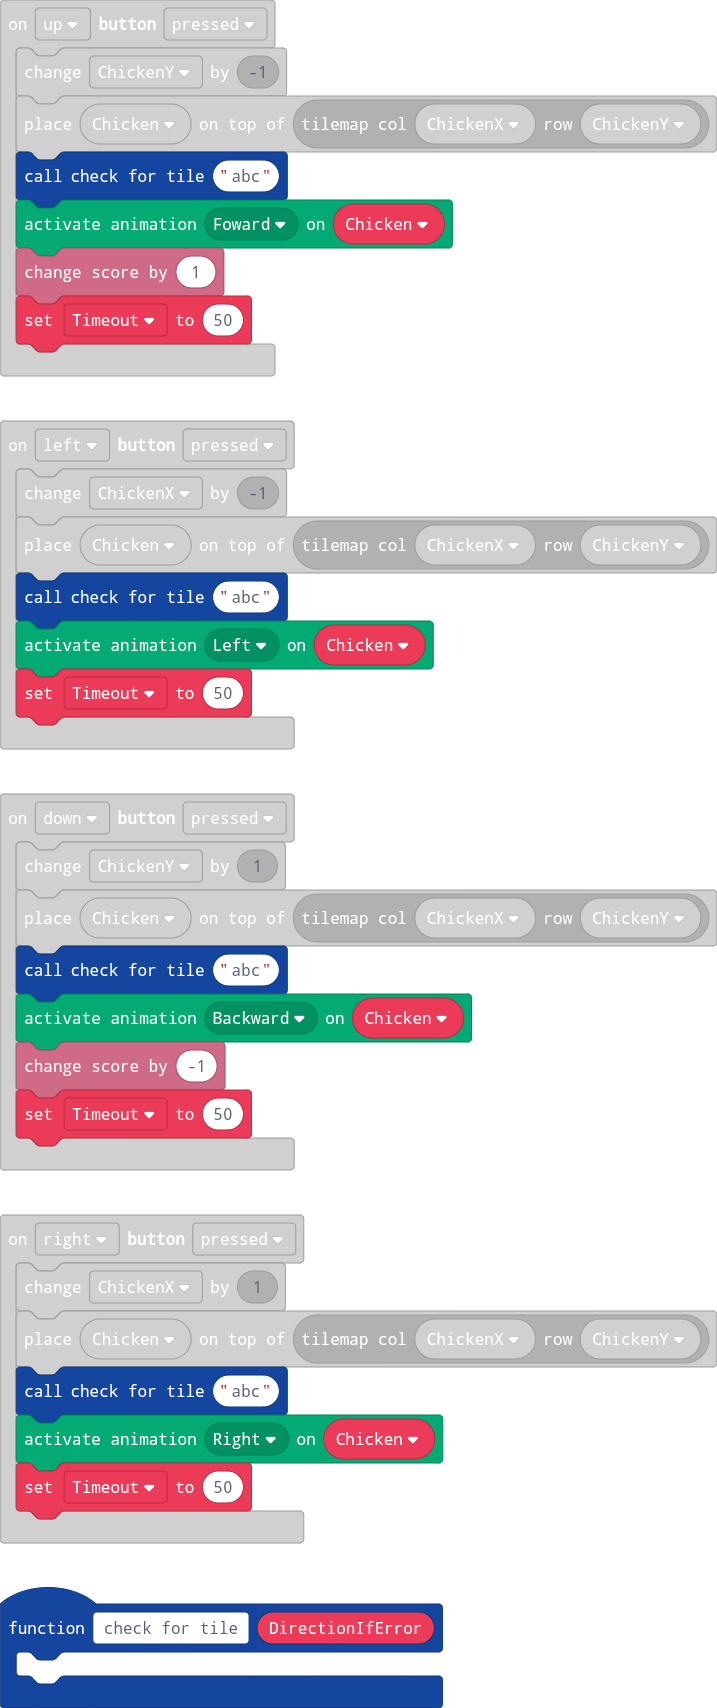
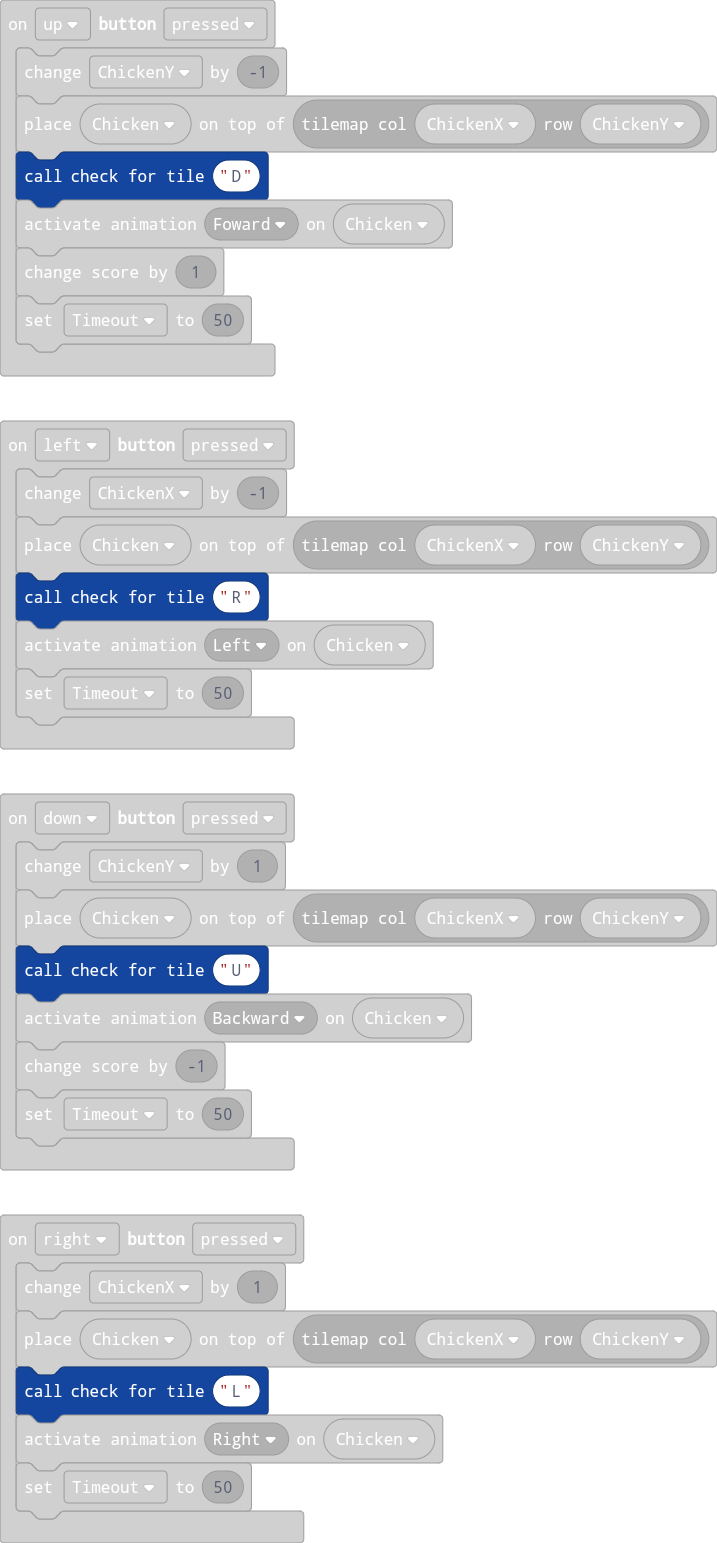
Update main.blocks, main.ts

diff --git a/main.ts b/main.ts
@@ -85,27 +85,27 @@ namespace myTiles {
 9 9 9 9 9 9 9 9 9 9 9 9 9 9 9 9 
 `
 }
-function check_for_tile (DirectionIfError: string) {
-	
-}
 scene.onOverlapTile(SpriteKind.Projectile, sprites.castle.tileGrass1, function (sprite, location) {
     sprite.destroy()
 })
 controller.left.onEvent(ControllerButtonEvent.Pressed, function () {
     ChickenX += -1
     tiles.placeOnTile(Chicken, tiles.getTileLocation(ChickenX, ChickenY))
-    check_for_tile("abc")
+    check_for_tile("R")
     animation.setAction(Chicken, ActionKind.Left)
     Timeout = 50
 })
 controller.down.onEvent(ControllerButtonEvent.Pressed, function () {
     ChickenY += 1
     tiles.placeOnTile(Chicken, tiles.getTileLocation(ChickenX, ChickenY))
-    check_for_tile("abc")
+    check_for_tile("U")
     animation.setAction(Chicken, ActionKind.Backward)
     info.changeScoreBy(-1)
     Timeout = 50
 })
+function check_for_tile (DirectionIfError: string) {
+	
+}
 sprites.onOverlap(SpriteKind.Enemy, SpriteKind.Player, function (sprite, otherSprite) {
     otherSprite.follow(sprite, 2000)
     sprite.setFlag(SpriteFlag.DestroyOnWall, true)
@@ -131,7 +131,7 @@ sprites.onOverlap(SpriteKind.Projectile, SpriteKind.Projectile, function (sprite
 controller.right.onEvent(ControllerButtonEvent.Pressed, function () {
     ChickenX += 1
     tiles.placeOnTile(Chicken, tiles.getTileLocation(ChickenX, ChickenY))
-    check_for_tile("abc")
+    check_for_tile("L")
     animation.setAction(Chicken, ActionKind.Right)
     Timeout = 50
 })
@@ -144,7 +144,7 @@ scene.onOverlapTile(SpriteKind.Projectile, sprites.builtin.forestTiles0, functio
 controller.up.onEvent(ControllerButtonEvent.Pressed, function () {
     ChickenY += -1
     tiles.placeOnTile(Chicken, tiles.getTileLocation(ChickenX, ChickenY))
-    check_for_tile("abc")
+    check_for_tile("D")
     animation.setAction(Chicken, ActionKind.Foward)
     info.changeScoreBy(1)
     Timeout = 50
